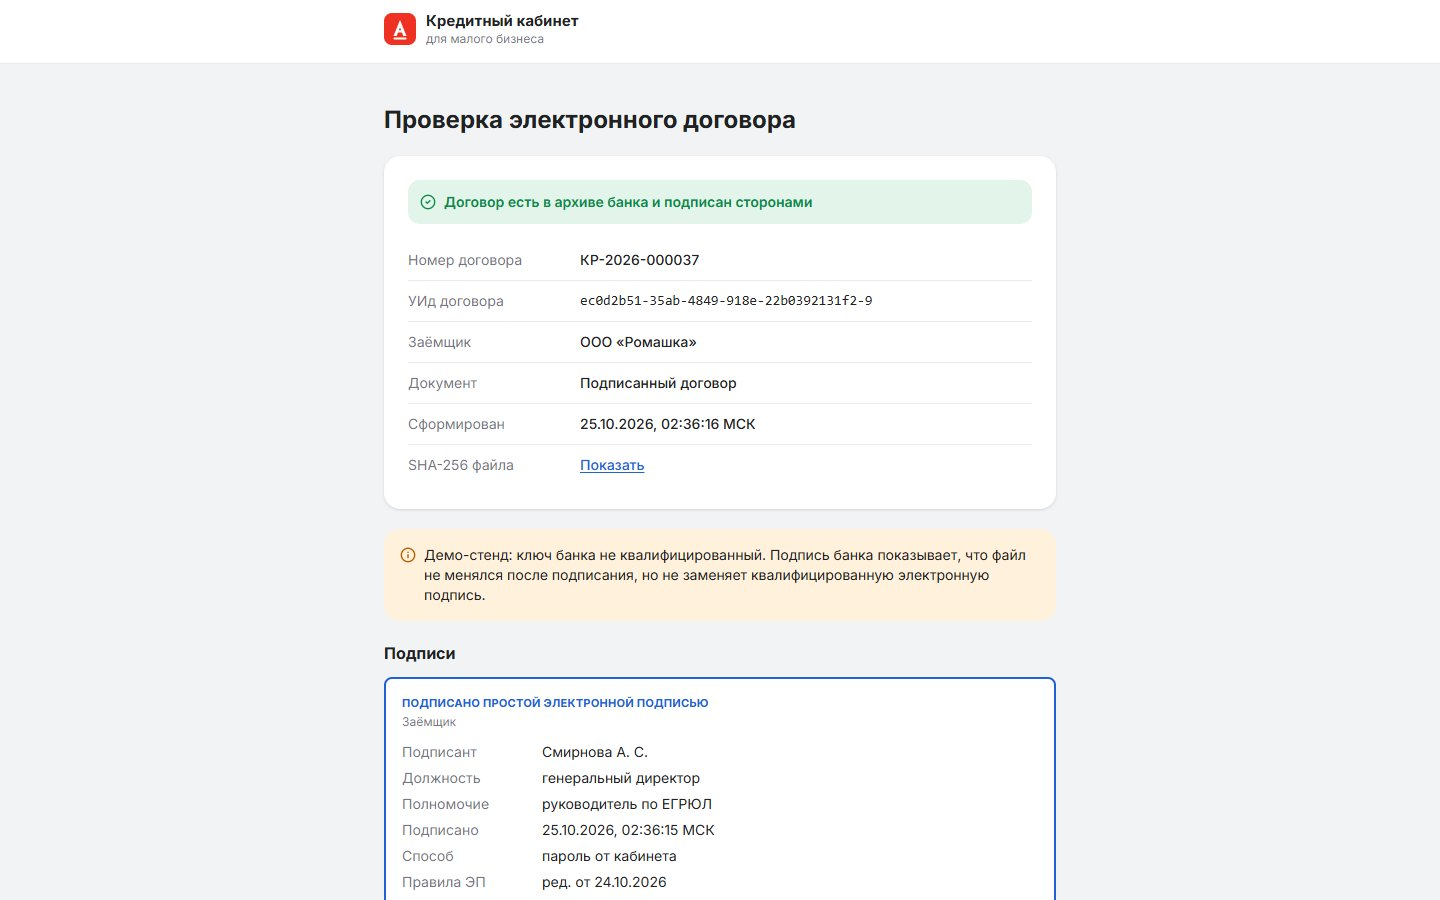
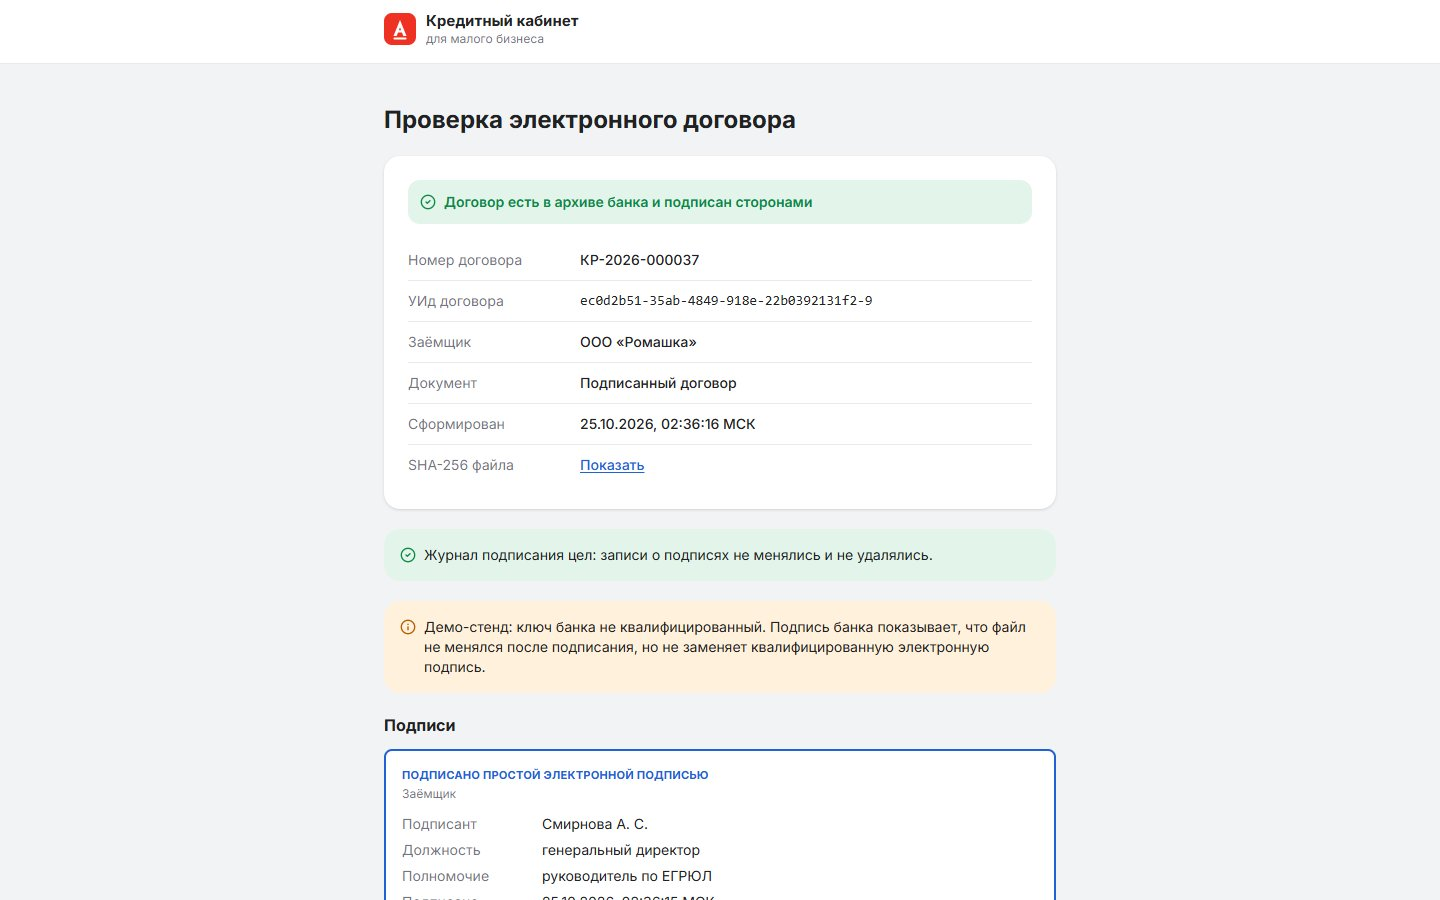
docs: скриншоты по свежему develop, журнал подписания на странице проверки, формат выписки и баланс ГИР БО в фишках (#260)

Changed region(s): [[0.25, 0.5911, 0.75, 1.0]]

diff --git a/docs/product/features.md b/docs/product/features.md
@@ -51,7 +51,7 @@
 
 - **Четыре исхода:** одобрение, встречное предложение (сначала удлинить срок, потом снизить сумму), дозапрос, отказ.
 - **Отказ с причинами** и подсказками, что изменить, и с альтернативным продуктом, если сумма ниже минимума.
-- **Кассовый разрыв.** По загруженной выписке банк прогнозирует разрыв и предлагает под него овердрафт или кредитную линию. Эксперты на вебинаре назвали это сильным плюсом.
+- **Кассовый разрыв.** По загруженной выписке банк прогнозирует разрыв и предлагает под него овердрафт или кредитную линию. Эксперты на вебинаре назвали это сильным плюсом. Формат выписки показан с образцом, и файл проверяется ещё до загрузки теми же правилами, что на бэкенде, — с номером строки, где ошибка.
 - **Клиенту никогда не показываются** скор, коды причин и данные БКИ — только тексты без порогов (115-ФЗ ст. 7: о мерах по закону клиента не информируют).
 
 ### 5. Договор онлайн с настоящей криптографией
@@ -60,7 +60,7 @@
 
 - **Подпись клиента — простая ЭП:** пароль ещё раз (украденной сессии мало) плюс хеш конкретного PDF. Подписать «не тот» договор нельзя.
 - **Подпись банка — усиленная ЭП** в самом PDF (PAdES) с меткой времени: любое изменение файла ломает подпись.
-- **Проверка без входа** — по QR-коду с бумаги или загрузкой файла.
+- **Проверка без входа** — по QR-коду с бумаги или загрузкой файла: подписи сторон, сертификат банка и целостность журнала подписания.
 - **УИд сделки** для бюро кредитных историй с контрольным символом по 758-П.
 - **Архив без права изменения** на 5 лет (115-ФЗ ст. 7 п. 4).
 
@@ -115,7 +115,7 @@
 ### 3. Объяснимость и воспроизводимость
 
 - **По каждому решению хранятся** трасса правил (`rule_trace`), версия политики, входы, ключевая ставка, лимиты и разбивка ставки. Скоринг хранит снимок входа и его хеш. Решение можно пересчитать той же версией и получить тот же результат.
-- **Андеррайтер видит,** почему автоматика остановилась (вид проверки: `check` или спорная), обе оценки, коды причин, досье источников. Ручное решение — новая запись со ссылкой на автоматическое.
+- **Андеррайтер видит,** почему автоматика остановилась (вид проверки: `check` или спорная), обе оценки, коды причин с подсказками клиенту, досье источников с балансом ГИР БО по годам и денежным потоком по месяцам выписки. Ручное решение — новая запись со ссылкой на автоматическое, в карточке помечено, что оно заменило автоматическое.
 
 ### 4. Досье из внешних источников
 

diff --git a/docs/contract-signing.md b/docs/contract-signing.md
@@ -232,7 +232,7 @@ hash = SHA-256( canonical_json({application_id, seq, at (UTC, ISO 8601), kind, a
 - номер, УИд, вид документа, SHA-256, дата, заёмщик;
 - подпись клиента — фамилия и инициалы (полное ФИО публично не показываем — 152-ФЗ), полномочие, время, способ, редакция Правил;
 - подпись банка — сертификат (владелец, серийный номер, издатель, срок), время подписи и метки;
-- `log_intact` — цел ли журнал;
+- `log_intact` — цел ли журнал; страница показывает «Журнал подписания цел: записи о подписях не менялись и не удалялись» или предупреждение, если цепочка не сходится;
 - `demo: true` — ключ демо-УЦ.
 
 **Загрузкой файла** — `POST /api/contracts/verify`. Сервис отвечает, тот ли это файл и цела ли подпись:
@@ -278,7 +278,6 @@ hash = SHA-256( canonical_json({application_id, seq, at (UTC, ISO 8601), kind, a
 - **Нет лимита попыток пароля при подписании** — стоит добавить блокировку после N ошибок.
 - **Текст договора и Правил — демо-шаблон**, юрист его не смотрел. Реквизиты банка взяты из открытых источников.
 - **Боевой стенд:** адрес в QR берётся из `MINIO_PUBLIC_ENDPOINT` — там должен быть публичный адрес стенда; страница `/verify/…` должна открываться без basic auth, иначе QR с бумаги не сработает.
-- **Страница проверки** пока не показывает `log_intact`, хотя API его отдаёт.
 
 ## Как попробовать
 
